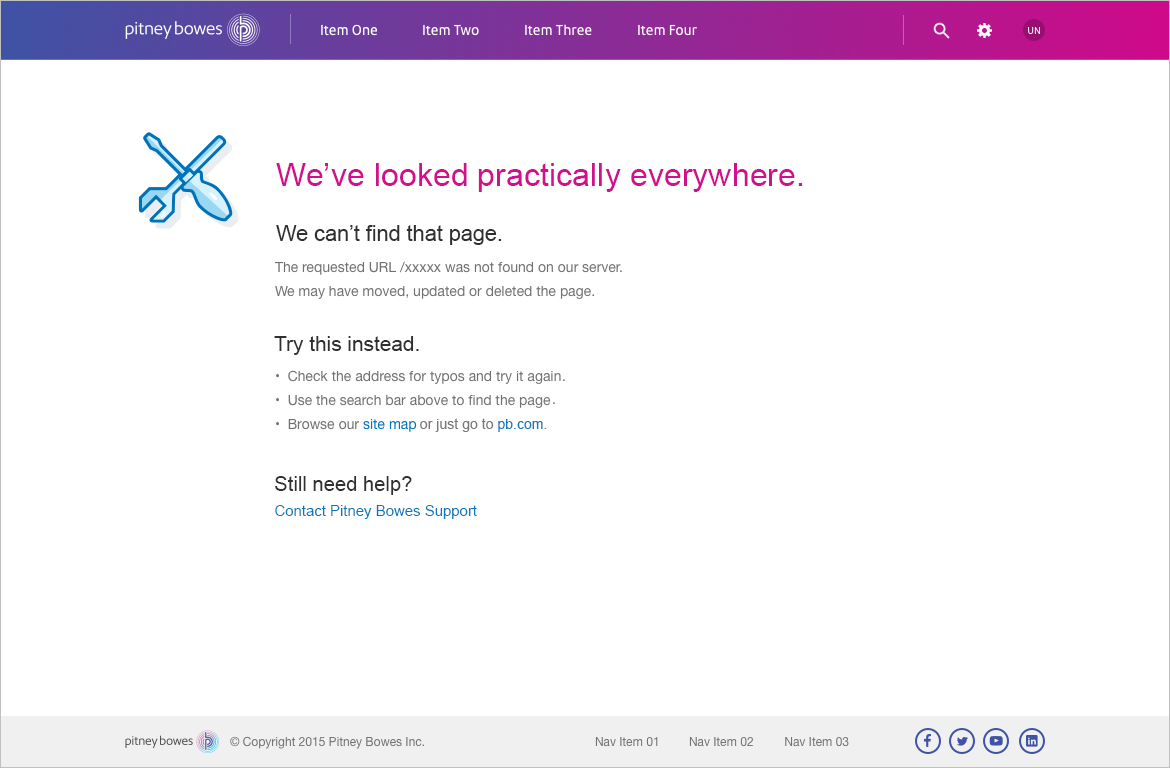
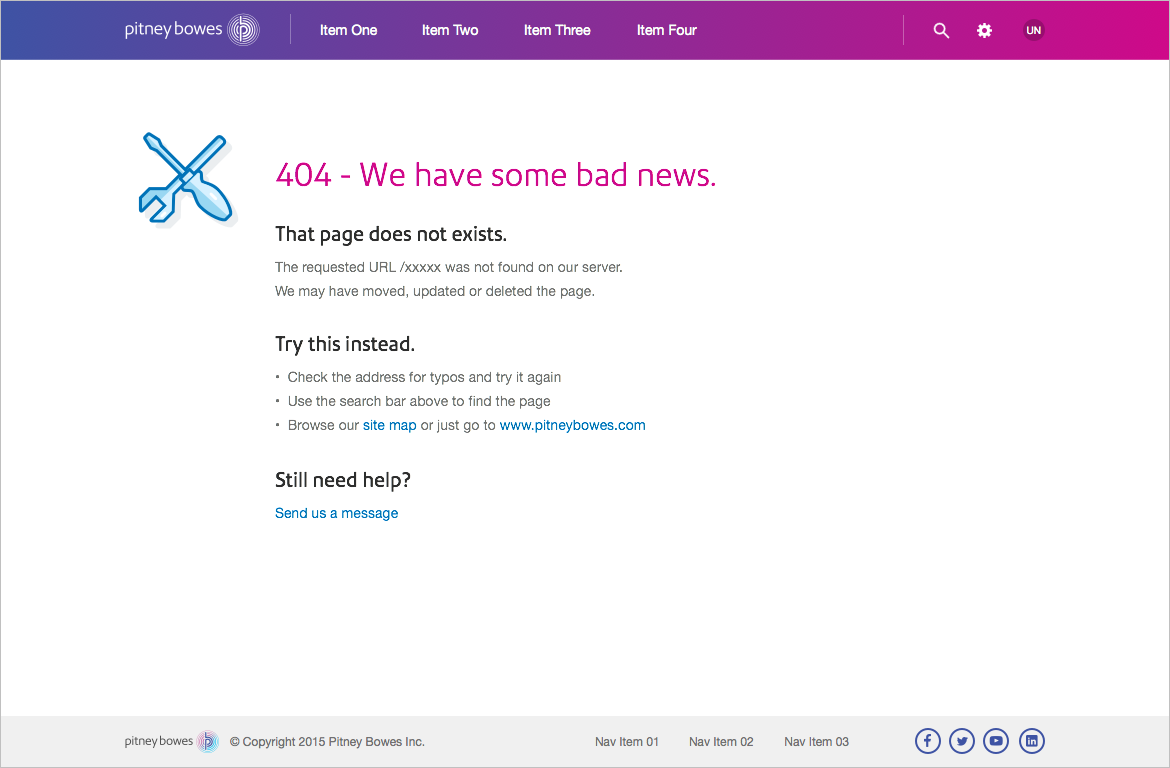
revised error page images, writing copy changes

diff --git a/app/modules/foundation/templates/foundation-writing-style.html b/app/modules/foundation/templates/foundation-writing-style.html
@@ -31,9 +31,9 @@
             <p><strong>Title Caps</strong></p>
             <p>These elements use title caps:</p>
             <ul>
-              <li>Getting Started and landing page headers</li>
+              <li>Getting started and welcome page headers</li>
               <li>Standard buttons, menus, table headers, container headers, and items in headers and footers</li>
-              <li>Onscreen headers and subheaders (&ldquo;Choose a Package Type&rdquo;), unless they&rsquo;re formed as a complete sentence, in which case they use sentence caps</li>
+              <li>Onscreen headers and subheaders (&ldquo;Choose a Package Type&rdquo;)</li>
             </ul>
           </div>
         </div>
@@ -45,7 +45,7 @@
             <ul>
               <li>Input field text prompts</li>
               <li>Alert headers</li>
-              <li>Getting Started and landing page subheaders</li>
+              <li>Getting started and welcome page subheaders</li>
               <li>Labels for radio buttons, checkboxes and dropdown menus</li>
               <li>Error and modal headers (which should be written conversationally)</li>
             </ul>
@@ -68,7 +68,7 @@
 
       <h5>Punctuation</h5>
       <ul>
-        <li><strong>Periods.</strong> Use these in onscreen copy (such as instructions or popovers), but not in UI elements (such as labels, buttons or menus). Don&rsquo;t use the period at the end of headers or subheaders, except in the case of Getting Started pages, which do apply a period to the end of subheaders</li>
+        <li><strong>Periods.</strong> Use these in onscreen copy (such as instructions or popovers), but not in UI elements (such as labels, buttons or menus). Don&rsquo;t use the period at the end of headers or subheaders, except in the case of getting started pages (which apply a period to the end of subheaders) and error pages (which apply a period at the end of both headers and subheaders)</li>
         <li><strong>Exclamation Points.</strong> In general, avoid use of the exclamation point. The exception is in status alerts that are positive in nature (&ldquo;Success!&rdquo;). Never use an exclamation point in an error message.</li>
         <li><strong>Question Marks.</strong> Questions marks are useful in certain situations, such as common UI prompts (&ldquo;Forgot your password?&rdquo;) and in modals (&ldquo;Are you sure you want to delete this contact?&rdquo;), but they should in general be avoided in UI copy.</li>
         <li><strong>Colons.</strong> Don&rsquo;t conclude label copy with a colon (such as before an input field, or a group of radio buttons or checkboxes).</li>

diff --git a/app/modules/foundation/templates/foundation-writing-overview.html b/app/modules/foundation/templates/foundation-writing-overview.html
@@ -14,7 +14,7 @@
       <h3>What&rsquo;s Covered Here</h3>
       <p>This guidance deals with how to apply the overall Pitney Bowes brand voice to your products. In most cases this applies to the copy the user sees on the screen while using your responsive web or mobile apps &mdash; items like:</p>
       <ul>
-        <li>Getting Started screens and landing pages</li>
+        <li>Getting Started screens and welcome pages</li>
         <li>Navigation, dashboards and data visualization</li>
         <li>Headers, menus, buttons, inputs and other UI elements</li>
         <li>Error messages and copy for things like popovers and alerts</li>
